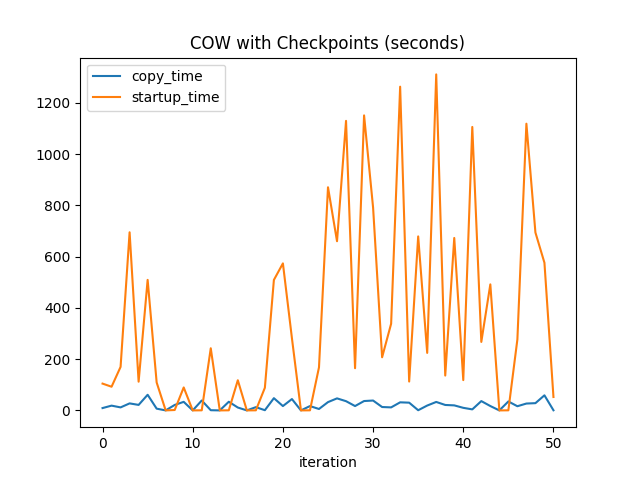
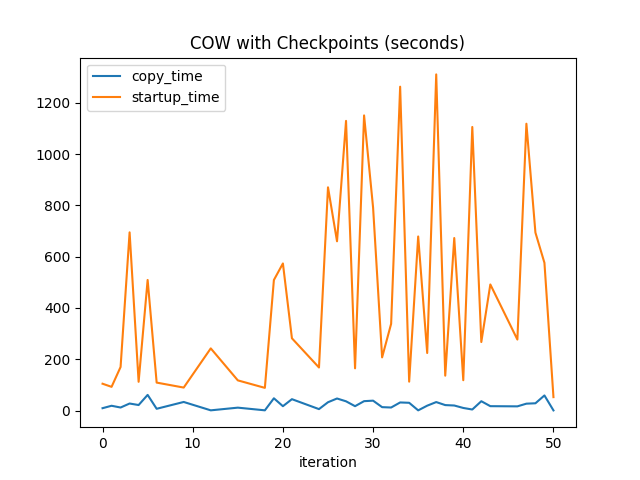
Add some stats

Changed region(s): [[0.25, 0.6875, 0.5, 0.875], [0.75, 0.5938, 0.8125, 0.875]]

diff --git a/cmudb/exploration/analyze.py b/cmudb/exploration/analyze.py
@@ -11,16 +11,19 @@ VALID = "valid"
 NS_PER_SEC = 1000000000
 
 # TODO turn into command line arg
-FILE_NAME = "results/not_cow_tuned_12hr_checkpoint.json"
+FILE_NAME = "results/cow_tuned_12hr.json"
 
 
 def main():
     df = pd.read_json(FILE_NAME)
     df[COPY_TIME] = df[COPY_TIME_NS] / NS_PER_SEC
     df[STARTUP_TIME] = df[STARTUP_TIME_NS] / NS_PER_SEC
-    df.plot(x=ITERATION, y=[COPY_TIME, STARTUP_TIME], kind="line", title="COW with Checkpoints (seconds)")
-    # plt.show()
+    valid_measurements = df[df[VALID] == True]
+    valid_measurements.plot(x=ITERATION, y=[COPY_TIME, STARTUP_TIME],
+                            kind="line", title="COW (seconds)")
+    plt.show()
     print(df[[STARTUP_TIME, COPY_TIME]].describe())
+    print(f"Percent Valid: {len(valid_measurements) / len(df)}")
 
 
 if __name__ == '__main__':

diff --git a/cmudb/exploration/docs/summary_stats.md b/cmudb/exploration/docs/summary_stats.md
@@ -11,6 +11,8 @@ min       63.282846   16.198293
 75%      214.514100   19.799430
 max      419.416824   27.842382
 
+Percent Valid: 1
+
 ## Not COW with Checkpoints
        startup_time   copy_time
 count    161.000000  161.000000
@@ -22,6 +24,20 @@ min       71.111141   15.956342
 75%      161.183767   18.846294
 max      362.654751   29.366065
 
+Percent Valid: 1
+
+## COW
+       startup_time  copy_time
+count     47.000000  47.000000
+mean     730.215312   7.227090
+std      427.925305  10.461809
+min        0.000000   0.000000
+25%      419.932380   1.913037
+50%      678.596026   2.850355
+75%      979.252051   6.538706
+max     1590.971708  44.520184
+
+Percent Valid: 0.9148936170212766
 
 ## COW with Checkpoints
        startup_time  copy_time
@@ -33,3 +49,5 @@ min        0.000000   0.000000
 50%      169.769334  18.573535
 75%      618.093836  33.196823
 max     1310.949019  60.963938
+
+Percent Valid: 0.7647058823529411
